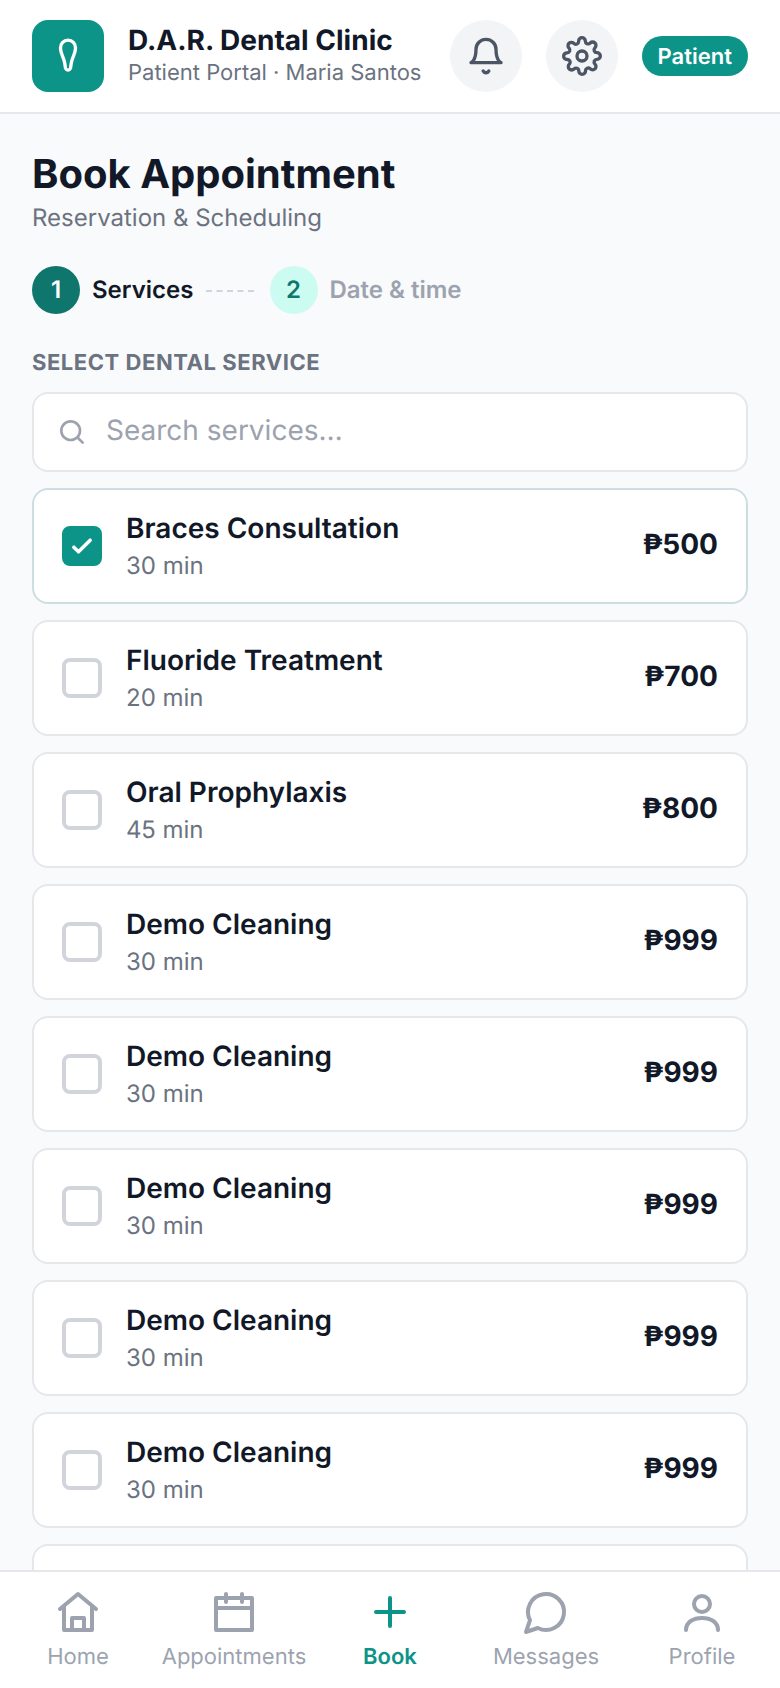
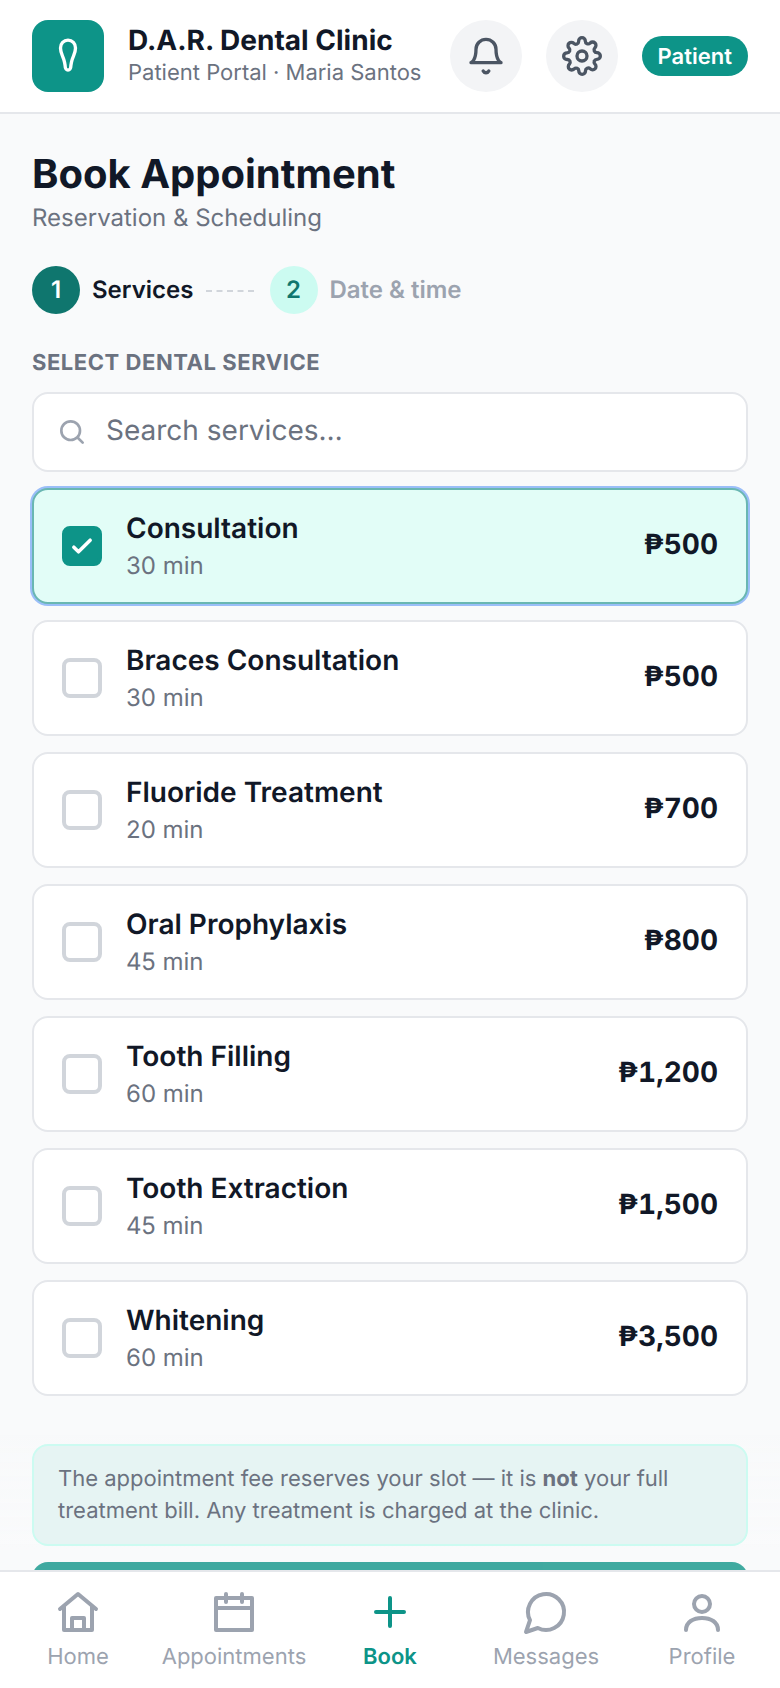
fix: sticky booking footer clears tab bar

diff --git a/frontend/src/pages/patient/Book.jsx b/frontend/src/pages/patient/Book.jsx
@@ -216,7 +216,7 @@ export default function Book() {
         )}
 
         {/* sticky action bar — fee context + CTA always in reach */}
-        <div className="sticky bottom-0 -mx-4 px-4 pt-2 pb-[calc(0.5rem+env(safe-area-inset-bottom))] bg-gradient-to-t from-gray-50 via-gray-50 to-transparent">
+        <div className="sticky -mx-4 px-4 pt-2 pb-2 bottom-[calc(4.25rem+env(safe-area-inset-bottom))] bg-gradient-to-t from-gray-50 via-gray-50 to-transparent">
         {step === 1 && (
           <p className="text-[11px] text-gray-500 bg-primary-50 border border-primary-100 rounded-lg px-3 py-2 mb-2">
             The appointment fee reserves your slot — it is <b>not</b> your full treatment bill. Any treatment is charged at the clinic.
